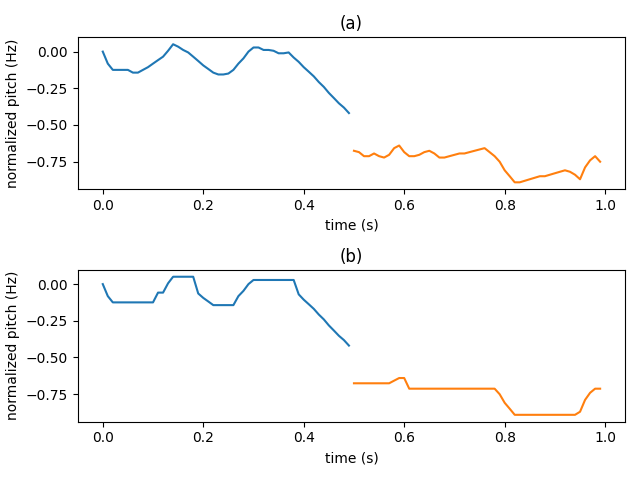
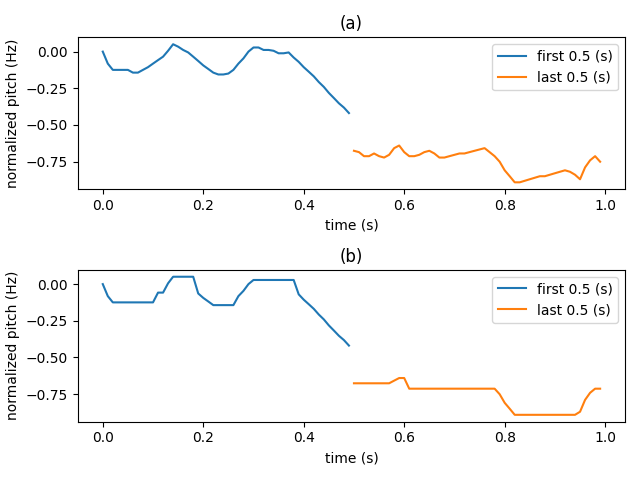
pictures

Changed region(s): [[0.7812, 0.5938, 0.9688, 0.6875], [0.7812, 0.0938, 0.9688, 0.1875], [0.7812, 0.1562, 0.8125, 0.1875]]

diff --git a/transform_data/plotting_transformation.py b/transform_data/plotting_transformation.py
@@ -38,6 +38,7 @@ def test_single_plot(data,data2,time2):
     return
 
 def plot_smooth(data,boundary):
+    data = data[1]
     halfway = int(len(data)/2)
     time = np.arange(len(data))/len(data)
     
@@ -48,19 +49,21 @@ def plot_smooth(data,boundary):
     frame = fig.add_subplot(2,1,2)
     frame2 = fig.add_subplot(2,1,1)
     
-    frame.plot(time[:halfway],smoothL)
-    frame.plot(time[halfway:len(data)],smoothR)
+    frame.plot(time[:halfway],smoothL,label="first 0.5 (s)")
+    frame.plot(time[halfway:len(data)],smoothR,label="last 0.5 (s)")
         
     frame.set_xlabel("time (s)")
     frame.set_ylabel("normalized pitch (Hz)")
     frame.set_title("(b)")
+    frame.legend()
 
-    frame2.plot(time[:halfway],data[:halfway])
-    frame2.plot(time[halfway:len(data)],data[halfway:len(data)])
+    frame2.plot(time[:halfway],data[:halfway],label="first 0.5 (s)")
+    frame2.plot(time[halfway:len(data)],data[halfway:len(data)],label="last 0.5 (s)")
     
     frame2.set_xlabel("time (s)")
     frame2.set_ylabel("normalized pitch (Hz)")
     frame2.set_title("(a)")
+    frame2.legend()
     fig.tight_layout()
     plt.show()
     return
@@ -81,10 +84,10 @@ def plot_flat(allData,boundary,N=0):
     newFlatL = flat_areas2(flatL,2,0.05)
     newFlatR = flat_areas2(flatR,2,0.05)
     size = 3
-    frame.scatter(range(len(flatL)),flatL,s=size)
-    frame.scatter(range(len(flatL),len(flatL)+len(flatR)),flatR,s=size)
-    frame2.scatter(range(len(newFlatL)),newFlatL,s=size)
-    frame2.scatter(range(len(newFlatL),len(newFlatL)+len(newFlatR)),newFlatR,s=size)
+    frame.scatter(range(len(flatL)),flatL,s=size,label="first 0.5 (s)")
+    frame.scatter(range(len(flatL),len(flatL)+len(flatR)),flatR,s=size,label="last 0.5 (s)")
+    frame2.scatter(range(len(newFlatL)),newFlatL,s=size,label="first 0.5 (s)")
+    frame2.scatter(range(len(newFlatL),len(newFlatL)+len(newFlatR)),newFlatR,s=size,label="last 0.5 (s)")
     fsize= 12
     frame.set_xlabel("time (ms)",fontsize=fsize)
     frame.set_ylabel("frequency (log Hz)",fontsize=fsize)
@@ -92,9 +95,11 @@ def plot_flat(allData,boundary,N=0):
     frame.set_title("(a)")
     frame2.set_xlabel("time (ms)",fontsize=fsize)
     frame2.set_ylabel("frequency (log Hz)",fontsize=fsize)
-    frame2.set_title("filtered flat areas")
     frame2.set_title("(b)")
-    
+    # frame2.set_title("")
+
+    frame.legend()
+    frame2.legend()
     fig.tight_layout()
     plt.show()
     return

diff --git a/pipeline.py b/pipeline.py
@@ -160,7 +160,8 @@ if __name__ == "__main__":
     # preprocessing()
     fileName = "data"+"/pitch_data_questions_processed_pitch.txt"
     pitch = tfd.read_file2(os.path.abspath(os.path.join(fileName)),True)
-    tfd.plot_flat(pitch,2.4,1)
+    # tfd.plot_flat(pitch,2.4,1)
+    tfd.plot_smooth(pitch,2.4)
     
     # fileName = "data"+"/pitch_data_questions_processed_pitch.txt"
     # fileName2 = "data"+"/pitch_data_questions_pitch.txt"
